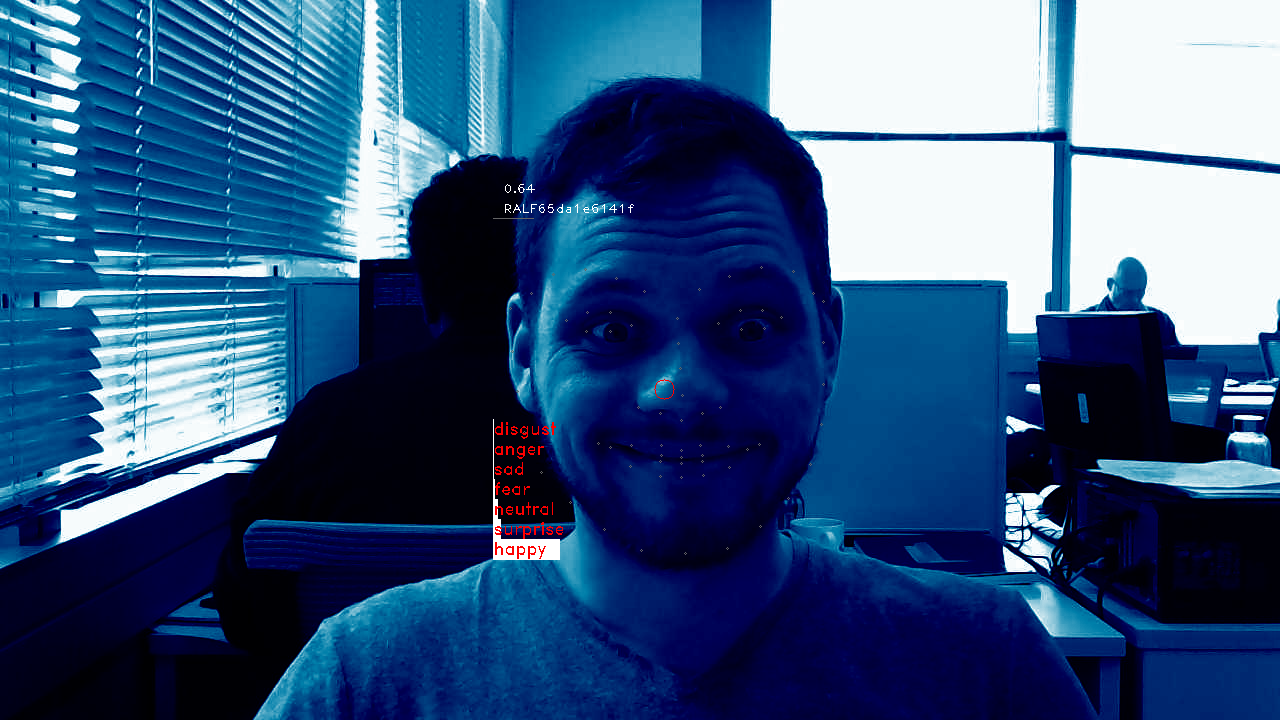
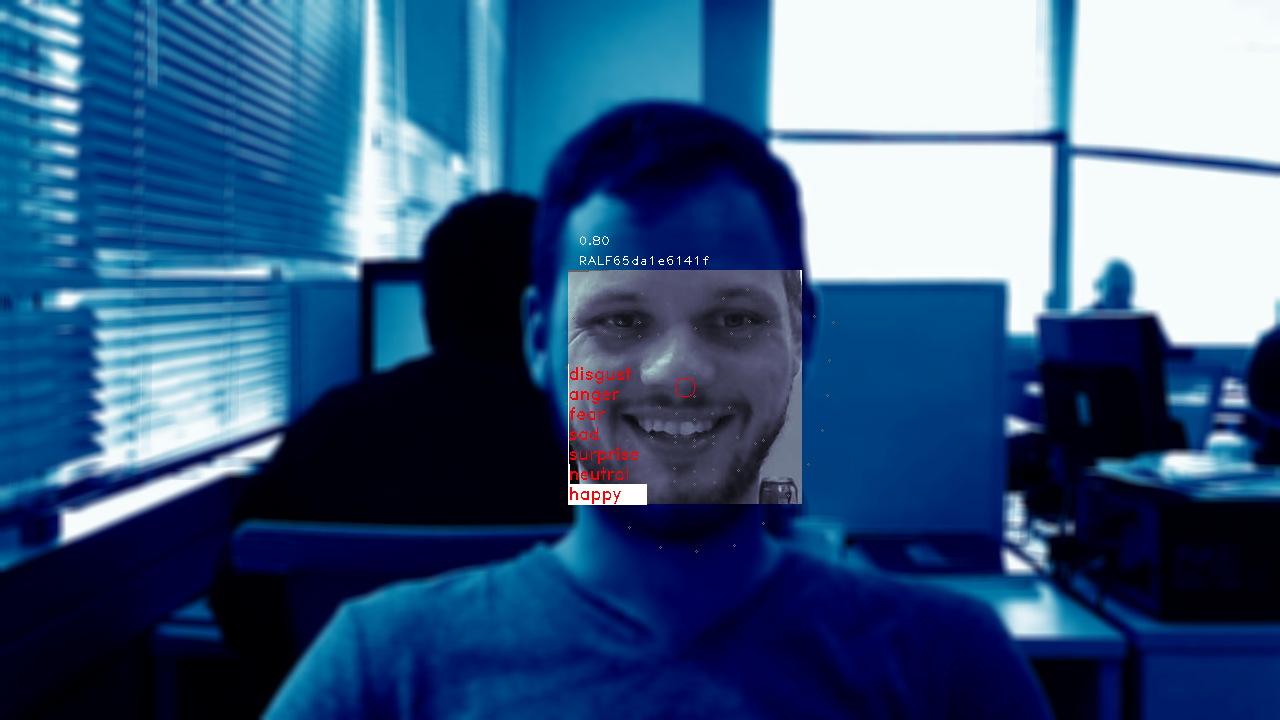
blurry debug output

diff --git a/scripts/model_debug.py b/scripts/model_debug.py
@@ -41,7 +41,7 @@ def debugDraw(self):
 
     frame = IMAGE.copy()
     frame = cv2.applyColorMap(frame, cv2.COLORMAP_OCEAN)
-    #frame = cv2.blur(frame,(10,10))
+    frame = cv2.blur(frame,(10,10))
 
     for face in FACES:
         size = int(face.position.z*4)
@@ -53,7 +53,7 @@ def debugDraw(self):
         img = cv2.applyColorMap(img, cv2.COLORMAP_BONE)
 
         cut_frame = frame[py:py+size, px:px+size, :]
-        #frame[py:py+size, px:px+size, :]  = img[:cut_frame.shape[0],:cut_frame.shape[1],:]
+        frame[py:py+size, px:px+size, :]  = img[:cut_frame.shape[0],:cut_frame.shape[1],:]
 
         cv2.circle(frame, (int(face.position.x), int(face.position.y)), 10, cnn_clr)
         cv2.putText(frame, "%.2f" % (face.certainty), (px + 10, py - 25), cv2.FONT_HERSHEY_PLAIN, 0.9,txt_clr)
